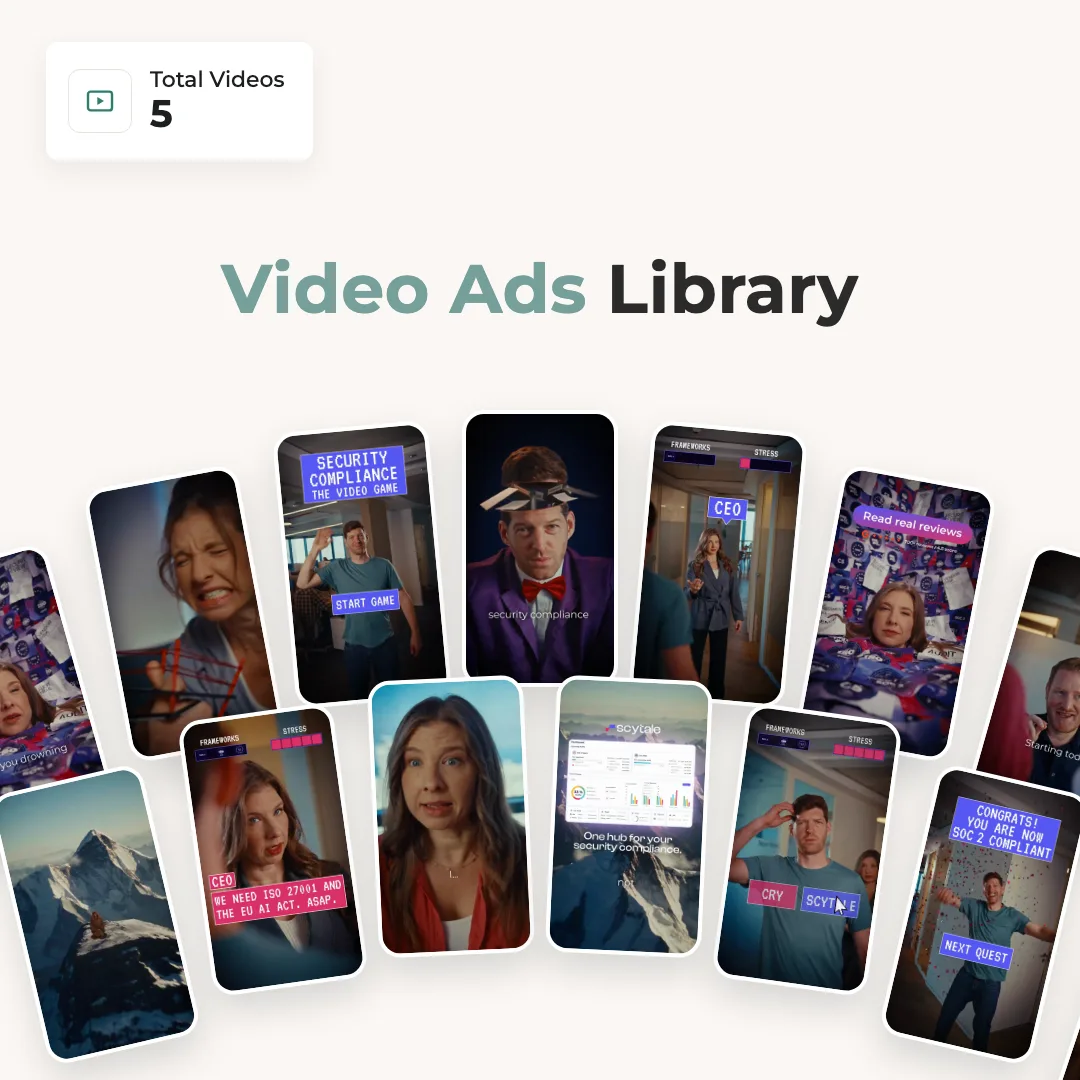
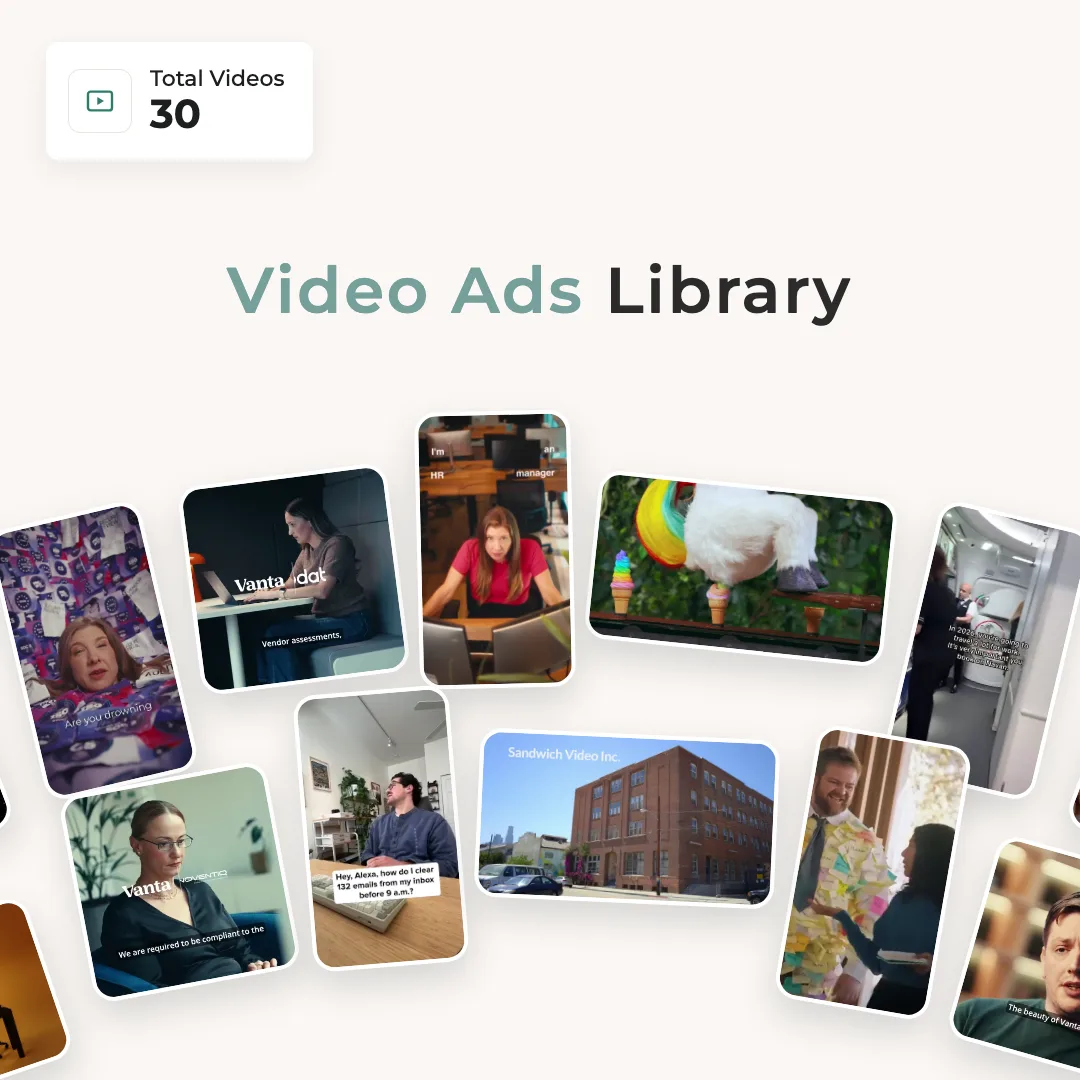
Redo the Video Ads homepage tile; mix the Professional tab's first-load order
Tile: title set in the same semibold weight, size and tracking as the other
tiles, badge count updated to 30, artwork now fans vertical, square and wide
frames together. OG image regenerated from it.

Professional tab: priority.professional on all 18 entries gives a mixed
opening order (Mission, Floating Head, Devil Interview, Old Couple, ...).
The All tab's pinned order and every URL number are unchanged.

diff --git a/ads.js b/ads.js
@@ -1690,24 +1690,24 @@ window.ADS = [
   // ---------- Video Ads — Professional ----------
   // `video` is the mp4, `image` is its poster frame, `aspect` is the card shape.
   // Append only within each block: URL numbers (/videos/<category>-N) come from position.
-  { image: "scytale-1611575144.webp", video: "scytale-1611575144.mp4", title: "Floating Head", formula: "", tag: "Professional", category: "professional", platform: "videos", aspect: "9 / 16", priority: { all: 1 } },
-  { image: "scytale-1611547124.webp", video: "scytale-1611547124.mp4", title: "Company Meeting", formula: "", tag: "Professional", category: "professional", platform: "videos", aspect: "9 / 16", priority: { all: 6 } },
-  { image: "scytale-1611739984.webp", video: "scytale-1611739984.mp4", title: "Close Up", formula: "", tag: "Professional", category: "professional", platform: "videos", aspect: "9 / 16", priority: { all: 15 } },
-  { image: "scytale-1611693444.webp", video: "scytale-1611693444.mp4", title: "Video Game", formula: "", tag: "Professional", category: "professional", platform: "videos", aspect: "9 / 16", priority: { all: 7 } },
-  { image: "scytale-1611693434.webp", video: "scytale-1611693434.mp4", title: "Video Game", formula: "", tag: "Professional", category: "professional", platform: "videos", aspect: "9 / 16", priority: { all: 20 } },
-  { image: "hibob-exukmvuntylilmg.webp", video: "hibob-exukmvuntylilmg.mp4", title: "Smashing Glass", formula: "", tag: "Professional", category: "professional", platform: "videos", aspect: "9 / 16", priority: { all: 11 } },
-  { image: "fyxer-u01hwnt2hab2ya6.webp", video: "fyxer-u01hwnt2hab2ya6.mp4", title: "Inbox Zero", formula: "", tag: "Professional", category: "professional", platform: "videos", aspect: "9 / 16", priority: { all: 22 } },
-  { image: "lastpass-ccoywsevzp6arw1.webp", video: "lastpass-ccoywsevzp6arw1.mp4", title: "Sticky Notes", formula: "", tag: "Professional", category: "professional", platform: "videos", aspect: "9 / 16", priority: { all: 21 } },
-  { image: "vanta-1664463766.webp", video: "vanta-1664463766.mp4", title: "Hospital Bed", formula: "", tag: "Professional", category: "professional", platform: "videos", aspect: "9 / 16", priority: { all: 17 } },
-  { image: "conveyor-nydkww5t5dby9jh.webp", video: "conveyor-nydkww5t5dby9jh.mp4", title: "Devil Interview", formula: "", tag: "Professional", category: "professional", platform: "videos", aspect: "16 / 9", priority: { all: 3 } },
-  { image: "monday-1609769653.webp", video: "monday-1609769653.mp4", title: "Galaxy", formula: "", tag: "Professional", category: "professional", platform: "videos", aspect: "16 / 9", priority: { all: 8 } },
-  { image: "monday-1609827473.webp", video: "monday-1609827473.mp4", title: "Service Desk Manager", formula: "", tag: "Professional", category: "professional", platform: "videos", aspect: "16 / 9", priority: { all: 13 } },
-  { image: "monday-1609855933.webp", video: "monday-1609855933.mp4", title: "Quick Handoff", formula: "", tag: "Professional", category: "professional", platform: "videos", aspect: "16 / 9", priority: { all: 10 } },
-  { image: "monday-1594809493.webp", video: "monday-1594809493.mp4", title: "Old Phone", formula: "", tag: "Professional", category: "professional", platform: "videos", aspect: "16 / 9", priority: { all: 9 } },
-  { image: "abnormal-1576441726.webp", video: "abnormal-1576441726.mp4", title: "Mission", formula: "", tag: "Professional", category: "professional", platform: "videos", aspect: "16 / 9", priority: { all: 2 } },
-  { image: "descript-P8kJRIq82EY.webp", video: "descript-P8kJRIq82EY.mp4", title: "Colour Studio", formula: "", tag: "Professional", category: "professional", platform: "videos", aspect: "16 / 9" },
-  { image: "zendesk-e359jWSGMVg.webp", video: "zendesk-e359jWSGMVg.mp4", title: "Old Couple", formula: "", tag: "Professional", category: "professional", platform: "videos", aspect: "16 / 9" },
-  { image: "slack-B6zVzWU95Sw.webp", video: "slack-B6zVzWU95Sw.mp4", title: "Office Interviews", formula: "", tag: "Professional", category: "professional", platform: "videos", aspect: "16 / 9" },
+  { image: "scytale-1611575144.webp", video: "scytale-1611575144.mp4", title: "Floating Head", formula: "", tag: "Professional", category: "professional", platform: "videos", aspect: "9 / 16", priority: { all: 1, professional: 2 } },
+  { image: "scytale-1611547124.webp", video: "scytale-1611547124.mp4", title: "Company Meeting", formula: "", tag: "Professional", category: "professional", platform: "videos", aspect: "9 / 16", priority: { all: 6, professional: 7 } },
+  { image: "scytale-1611739984.webp", video: "scytale-1611739984.mp4", title: "Close Up", formula: "", tag: "Professional", category: "professional", platform: "videos", aspect: "9 / 16", priority: { all: 15, professional: 12 } },
+  { image: "scytale-1611693444.webp", video: "scytale-1611693444.mp4", title: "Video Game", formula: "", tag: "Professional", category: "professional", platform: "videos", aspect: "9 / 16", priority: { all: 7, professional: 5 } },
+  { image: "scytale-1611693434.webp", video: "scytale-1611693434.mp4", title: "Video Game", formula: "", tag: "Professional", category: "professional", platform: "videos", aspect: "9 / 16", priority: { all: 20, professional: 18 } },
+  { image: "hibob-exukmvuntylilmg.webp", video: "hibob-exukmvuntylilmg.mp4", title: "Smashing Glass", formula: "", tag: "Professional", category: "professional", platform: "videos", aspect: "9 / 16", priority: { all: 11, professional: 13 } },
+  { image: "fyxer-u01hwnt2hab2ya6.webp", video: "fyxer-u01hwnt2hab2ya6.mp4", title: "Inbox Zero", formula: "", tag: "Professional", category: "professional", platform: "videos", aspect: "9 / 16", priority: { all: 22, professional: 17 } },
+  { image: "lastpass-ccoywsevzp6arw1.webp", video: "lastpass-ccoywsevzp6arw1.mp4", title: "Sticky Notes", formula: "", tag: "Professional", category: "professional", platform: "videos", aspect: "9 / 16", priority: { all: 21, professional: 15 } },
+  { image: "vanta-1664463766.webp", video: "vanta-1664463766.mp4", title: "Hospital Bed", formula: "", tag: "Professional", category: "professional", platform: "videos", aspect: "9 / 16", priority: { all: 17, professional: 9 } },
+  { image: "conveyor-nydkww5t5dby9jh.webp", video: "conveyor-nydkww5t5dby9jh.mp4", title: "Devil Interview", formula: "", tag: "Professional", category: "professional", platform: "videos", aspect: "16 / 9", priority: { all: 3, professional: 3 } },
+  { image: "monday-1609769653.webp", video: "monday-1609769653.mp4", title: "Galaxy", formula: "", tag: "Professional", category: "professional", platform: "videos", aspect: "16 / 9", priority: { all: 8, professional: 6 } },
+  { image: "monday-1609827473.webp", video: "monday-1609827473.mp4", title: "Service Desk Manager", formula: "", tag: "Professional", category: "professional", platform: "videos", aspect: "16 / 9", priority: { all: 13, professional: 16 } },
+  { image: "monday-1609855933.webp", video: "monday-1609855933.mp4", title: "Quick Handoff", formula: "", tag: "Professional", category: "professional", platform: "videos", aspect: "16 / 9", priority: { all: 10, professional: 11 } },
+  { image: "monday-1594809493.webp", video: "monday-1594809493.mp4", title: "Old Phone", formula: "", tag: "Professional", category: "professional", platform: "videos", aspect: "16 / 9", priority: { all: 9, professional: 14 } },
+  { image: "abnormal-1576441726.webp", video: "abnormal-1576441726.mp4", title: "Mission", formula: "", tag: "Professional", category: "professional", platform: "videos", aspect: "16 / 9", priority: { all: 2, professional: 1 } },
+  { image: "descript-P8kJRIq82EY.webp", video: "descript-P8kJRIq82EY.mp4", title: "Colour Studio", formula: "", tag: "Professional", category: "professional", platform: "videos", aspect: "16 / 9", priority: { professional: 10 } },
+  { image: "zendesk-e359jWSGMVg.webp", video: "zendesk-e359jWSGMVg.mp4", title: "Old Couple", formula: "", tag: "Professional", category: "professional", platform: "videos", aspect: "16 / 9", priority: { professional: 4 } },
+  { image: "slack-B6zVzWU95Sw.webp", video: "slack-B6zVzWU95Sw.mp4", title: "Office Interviews", formula: "", tag: "Professional", category: "professional", platform: "videos", aspect: "16 / 9", priority: { professional: 8 } },
 
   // ---------- Video Ads — Social Proof ----------
   { image: "vanta-1678577086.webp", video: "vanta-1678577086.mp4", title: "Codat Interview", formula: "", tag: "Social Proof", category: "social-proof", platform: "videos", aspect: "1 / 1", priority: { all: 12 } },
